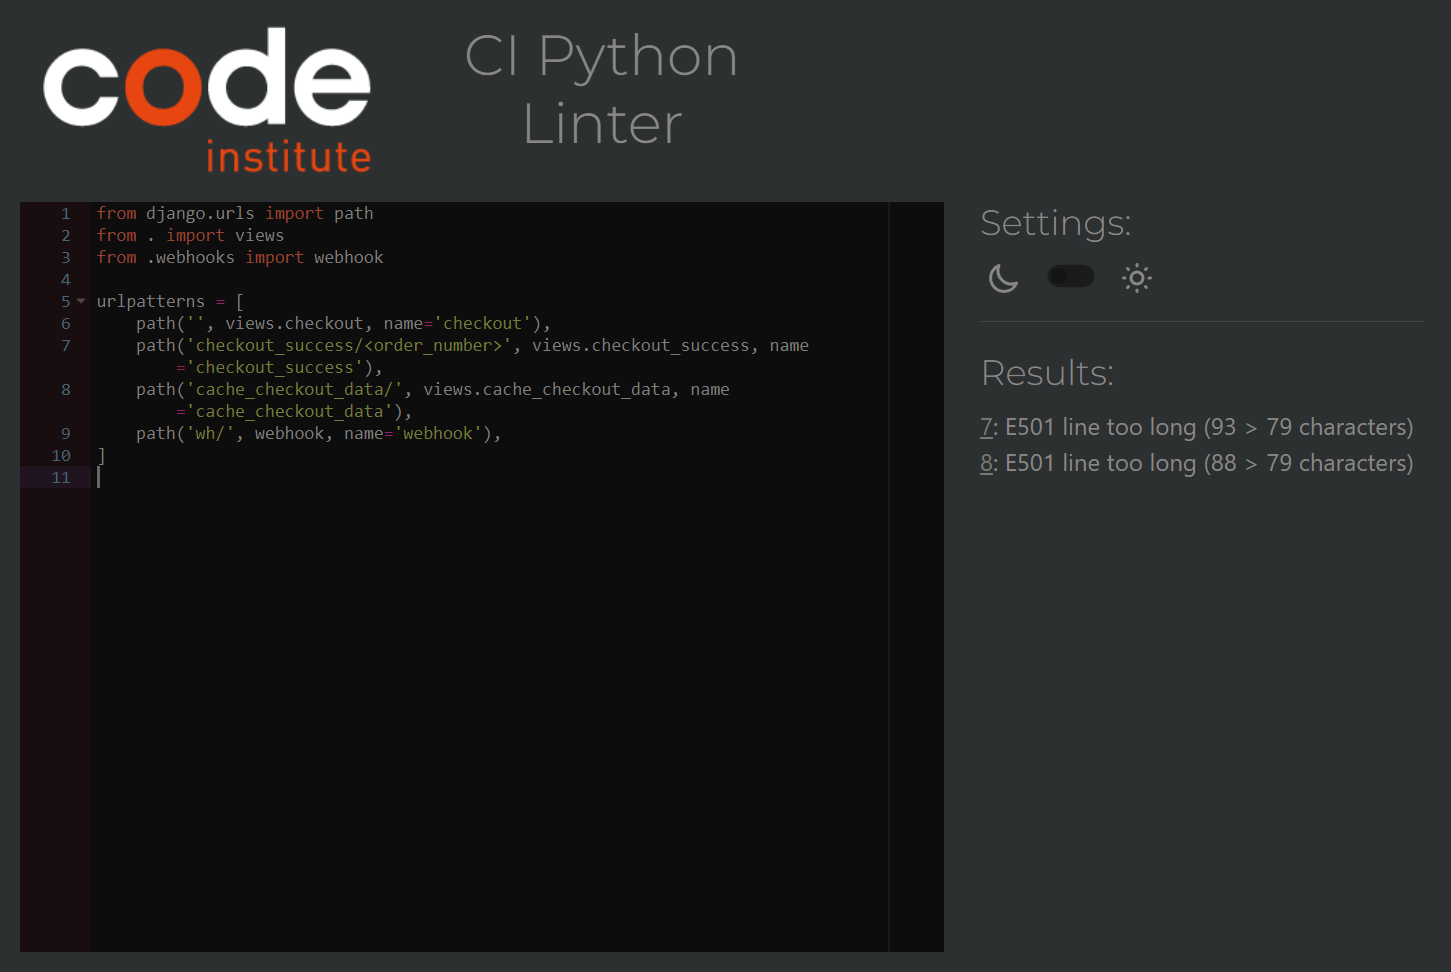
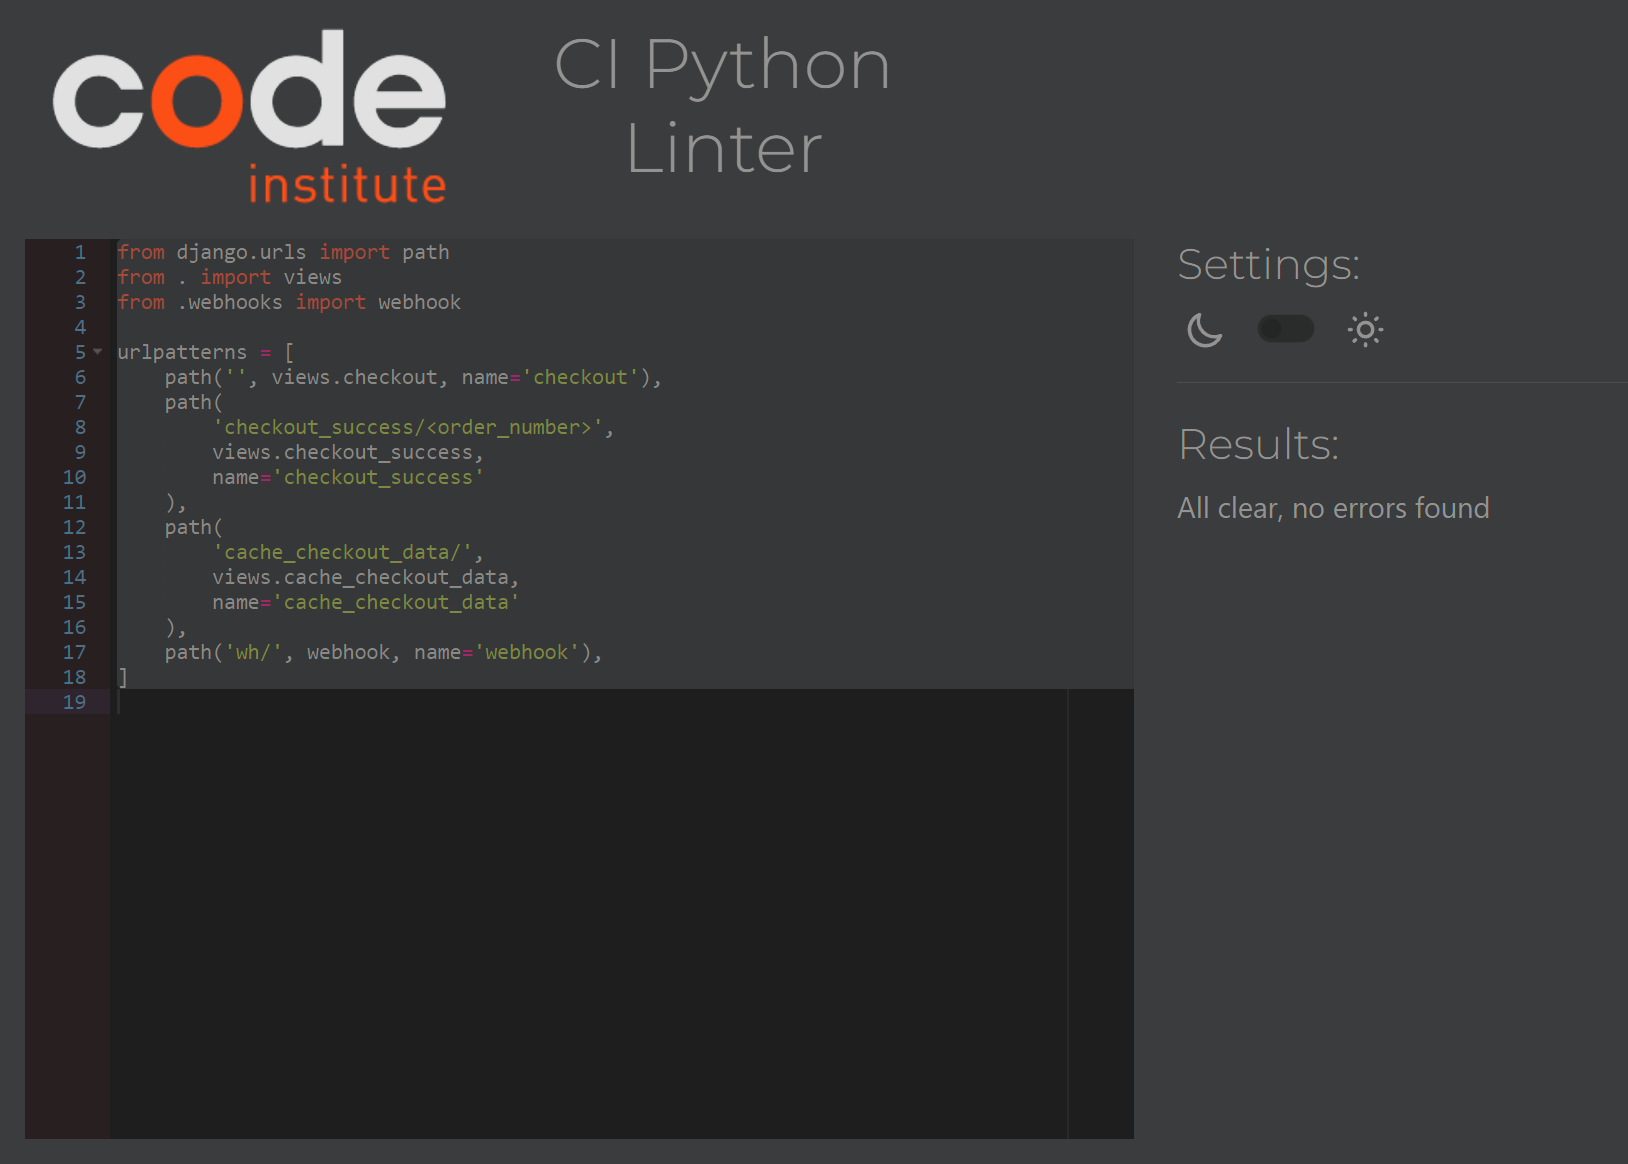
Last changes for pep8, some minor tweaks

diff --git a/records/templates/records/records.html b/records/templates/records/records.html
@@ -38,8 +38,6 @@
                             <option value="rating_desc" {% if current_sorting == 'rating_desc' %}selected{% endif %}>Rating (high to low)</option>
                             <option value="name_asc" {% if current_sorting == 'name_asc' %}selected{% endif %}>Name (A-Z)</option>
                             <option value="name_desc" {% if current_sorting == 'name_desc' %}selected{% endif %}>Name (Z-A)</option>
-                            <option value="category_asc" {% if current_sorting == 'category_asc' %}selected{% endif %}>Category (A-Z)</option>
-                            <option value="category_desc" {% if current_sorting == 'category_desc' %}selected{% endif %}>Category (Z-A)</option>
                             <option value="releasedate_asc" {% if current_sorting == 'releasedate_asc' %}selected{% endif %}>Release Date (oldest first)</option>
                             <option value="releasedate_desc" {% if current_sorting == 'releasedate_desc' %}selected{% endif %}>Release Date (newest first)</option>
                         </select>

diff --git a/templates/includes/main-nav.html b/templates/includes/main-nav.html
@@ -7,7 +7,6 @@
             <div class="dropdown-menu border-0 shadow-img" aria-labelledby="all-products-link">
                 <a href="{% url 'records' %}?sort=price&direction=asc" class="dropdown-item">By Price</a>
                 <a href="{% url 'records' %}?sort=rating&direction=desc" class="dropdown-item ">By Rating</a>
-                <a href="{% url 'records' %}?sort=category&direction=asc" class="dropdown-item ">By Category</a>
                 <a href="{% url 'records' %}" class="dropdown-item">All Products</a>
             </div>
         </li>

diff --git a/checkout/webhook_handler.py b/checkout/webhook_handler.py
@@ -70,8 +70,8 @@ class StripeWH_Handler:
                 profile.default_country = shipping_details.address.country
                 profile.default_postcode = shipping_details.address.postal_code
                 profile.default_town_or_city = shipping_details.address.city
-                profile.default_street_address1 = shipping_details.address.line1
-                profile.default_street_address2 = shipping_details.address.line2
+                profile.default_street_address1 = shipping_details.address.line1  # noqa
+                profile.default_street_address2 = shipping_details.address.line2  # noqa
                 profile.default_county = shipping_details.address.state
                 profile.save()
 
@@ -101,7 +101,10 @@ class StripeWH_Handler:
         if order_exists:
             self._send_confirmation_email(order)
             return HttpResponse(
-                content=f'Webhook received: {event["type"]} | SUCCESS: Verified order already in database',
+                content=(
+                    f'Webhook received: {event["type"]} | '
+                    'SUCCESS: Verified order already in database'
+                    ),
                 status=200)
         else:
             order = None
@@ -137,7 +140,10 @@ class StripeWH_Handler:
                     status=500)
         self._send_confirmation_email(order)
         return HttpResponse(
-            content=f'Webhook received: {event["type"]} | SUCCESS: Created order in webhook',
+            content=(
+                f'Webhook received: {event["type"]} | '
+                'SUCCESS: Created order in webhook'
+            ),
             status=200)
 
     def handle_payment_intent_payment_failed(self, event):

diff --git a/checkout/views.py b/checkout/views.py
@@ -1,4 +1,6 @@
-from django.shortcuts import render, redirect, reverse, get_object_or_404, HttpResponse
+from django.shortcuts import (
+    render, redirect, reverse, get_object_or_404, HttpResponse
+)
 from django.views.decorators.http import require_POST
 from django.contrib import messages
 from django.core.mail import send_mail
@@ -73,9 +75,9 @@ def checkout(request):
 
                 except Records.DoesNotExist:
                     messages.error(request, (
-                        "One of the records in your bag wasn't found in our database. "
-                        "Please call us for assistance!")
-                    )
+                        "One of the records in your bag wasn't found in "
+                        "our database.Please call us for assistance!"
+                        ))
                     order.delete()
                     return redirect(reverse('view_bag'))
 

diff --git a/records/admin.py b/records/admin.py
@@ -1,5 +1,5 @@
 from django.contrib import admin
-from .models import Records, Category  # Corrected import
+from .models import Records, Category
 
 
 class RecordsAdmin(admin.ModelAdmin):
@@ -16,7 +16,10 @@ class RecordsAdmin(admin.ModelAdmin):
     ordering = ('sku',)
 
     def display_categories(self, obj):
-        """Create a string for the Category. This is required to display ManyToManyField in list_display."""
+        """
+        Create a string for the Category.
+        This is required to display ManyToManyField in list_display.
+        """
         return ', '.join([category.name for category in obj.category.all()])
     display_categories.short_description = 'Categories'
 

diff --git a/checkout/webhooks.py b/checkout/webhooks.py
@@ -23,7 +23,7 @@ def webhook(request):
 
     try:
         event = stripe.Webhook.construct_event(
-        payload, sig_header, wh_secret
+            payload, sig_header, wh_secret
         )
     except ValueError as e:
         # Invalid payload
@@ -40,7 +40,7 @@ def webhook(request):
     # Map webhook events to relevant handler functions
     event_map = {
         'payment_intent.succeeded': handler.handle_payment_intent_succeeded,
-        'payment_intent.payment_failed': handler.handle_payment_intent_payment_failed,
+        'payment_intent.payment_failed': handler.handle_payment_intent_payment_failed,  # noqa
     }
 
     # Get the webhook type from Stripe

diff --git a/checkout/urls.py b/checkout/urls.py
@@ -4,7 +4,15 @@ from .webhooks import webhook
 
 urlpatterns = [
     path('', views.checkout, name='checkout'),
-    path('checkout_success/<order_number>', views.checkout_success, name='checkout_success'),
-    path('cache_checkout_data/', views.cache_checkout_data, name='cache_checkout_data'),
+    path(
+        'checkout_success/<order_number>',
+        views.checkout_success,
+        name='checkout_success'
+    ),
+    path(
+        'cache_checkout_data/',
+        views.cache_checkout_data,
+        name='cache_checkout_data'
+    ),
     path('wh/', webhook, name='webhook'),
 ]

diff --git a/checkout/models.py b/checkout/models.py
@@ -57,7 +57,7 @@ class Order(models.Model):
             'lineitem_total')
             )['lineitem_total__sum'] or 0
         if self.order_total < settings.FREE_DELIVERY_THRESHOLD:
-            self.delivery_cost = self.order_total * settings.STANDARD_DELIVERY_PERCENTAGE / 100
+            self.delivery_cost = self.order_total * settings.STANDARD_DELIVERY_PERCENTAGE / 100  # noqa
         else:
             self.delivery_cost = 0
         self.grand_total = self.order_total + self.delivery_cost

diff --git a/profiles/forms.py b/profiles/forms.py
@@ -30,5 +30,5 @@ class UserProfileForm(forms.ModelForm):
                 else:
                     placeholder = placeholders[field]
                 self.fields[field].widget.attrs['placeholder'] = placeholder
-            self.fields[field].widget.attrs['class'] = 'border-black rounded-0 profile-form-input'
+            self.fields[field].widget.attrs['class'] = 'border-black rounded-0 profile-form-input'  # noqa
             self.fields[field].label = False

diff --git a/records/views.py b/records/views.py
@@ -25,8 +25,6 @@ def all_records(request):
             if sortkey == 'name':
                 sortkey = 'lower_name'
                 records = records.annotate(lower_name=Lower('name'))
-            if sortkey == 'category':
-                sortkey = 'category__name'
             if sortkey == 'release':
                 sortkey = 'releasedate'
             if 'direction' in request.GET:

diff --git a/records/widgets.py b/records/widgets.py
@@ -6,4 +6,4 @@ class CustomClearableFileInput(ClearableFileInput):
     clear_checkbox_label = _('Remove')
     initial_text = _('Current Image')
     input_text = _('')
-    template_name = 'records/custom_widget_templates/custom_clearable_file_input.html'
+    template_name = 'records/custom_widget_templates/custom_clearable_file_input.html'  # noqa

diff --git a/bag/views.py b/bag/views.py
@@ -1,4 +1,6 @@
-from django.shortcuts import render, redirect, reverse, HttpResponse, get_object_or_404
+from django.shortcuts import (
+    render, redirect, reverse, HttpResponse, get_object_or_404
+    )
 from django.contrib import messages
 
 from records.models import Records
